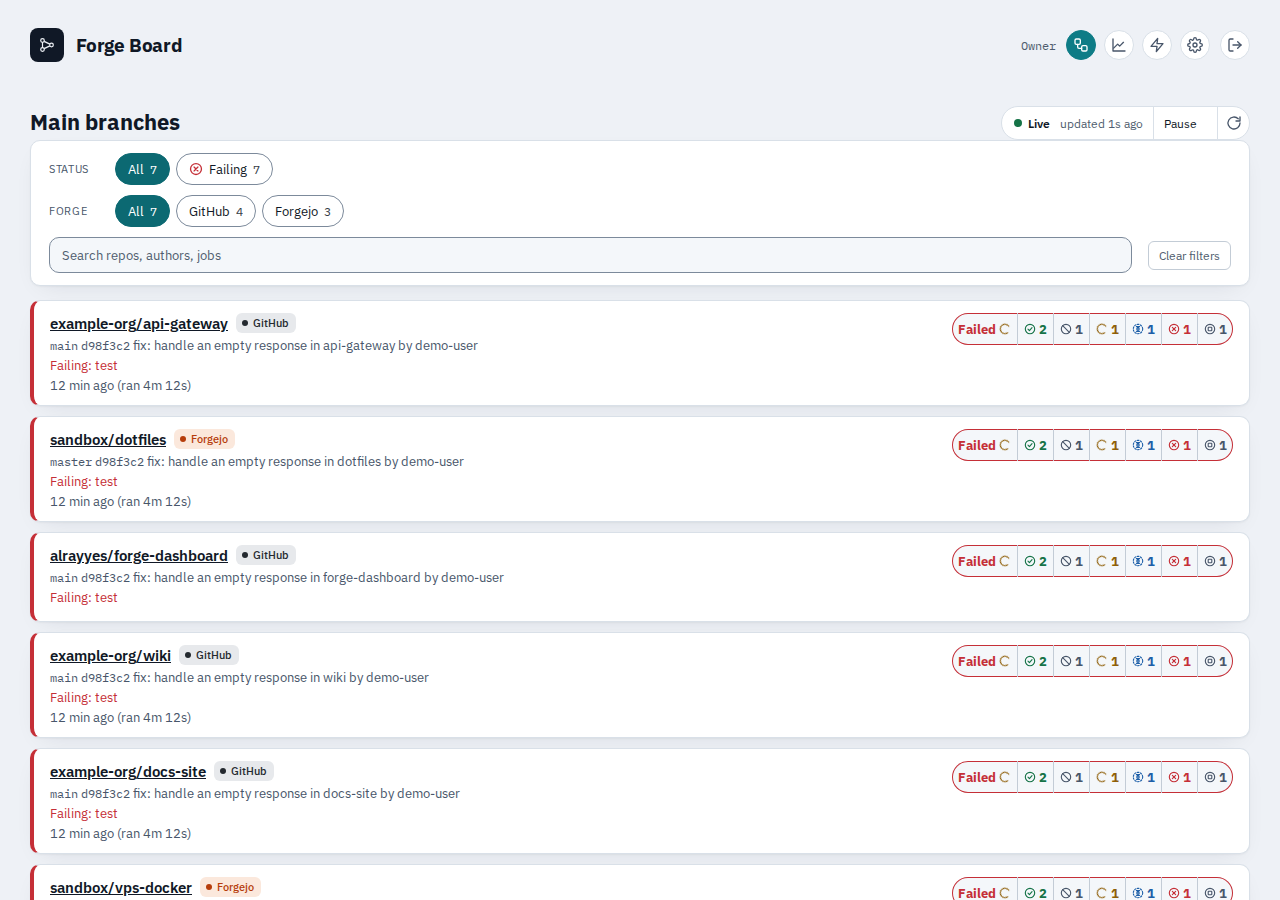
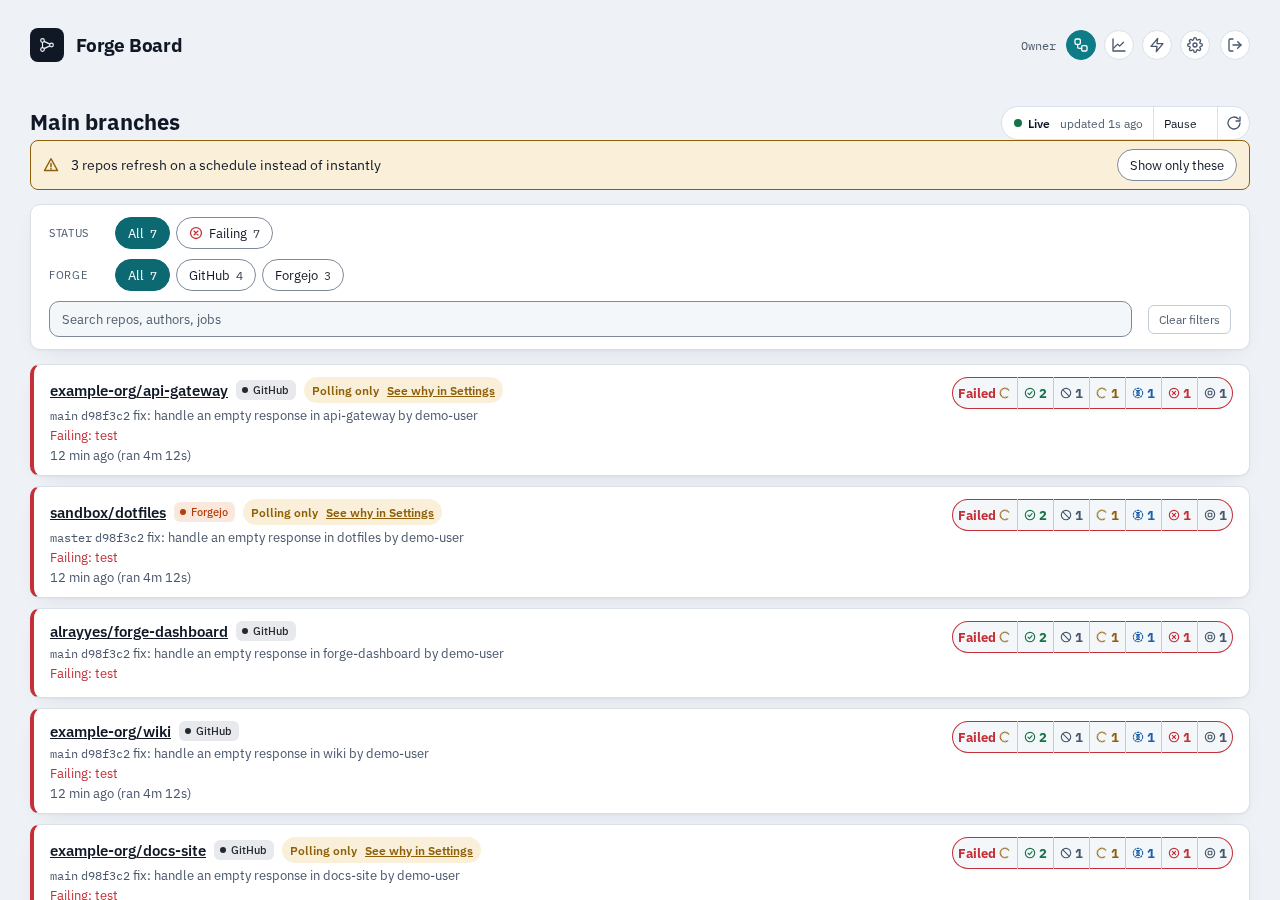
docs: add Repositories and phone screenshots to the README
Refs #4028

Changed region(s): [[0.0, 0.1244, 1.0, 1.0], [0.0625, 0.0311, 0.1562, 0.0622]]

diff --git a/scripts/capture-screenshots.ts b/scripts/capture-screenshots.ts
@@ -1,7 +1,8 @@
 #!/usr/bin/env node
 // Regenerates docs/screenshots/<page>-{light,dark}.png for every page in the
 // menu (branches, pull requests, issues, releases, bots, insights, webhooks,
-// settings), the pipeline checks panel, the pull request dialogs
+// settings, and its Repositories group, with a phone shot of the last and of
+// branches), the pipeline checks panel, the pull request dialogs
 // (a pull request, a release, a bot, and the phone sheet) and the login page
 // (the footer pages are left out) against a real build of the binary, run by
 // the release workflow's screenshots job — not a Playwright *test*
@@ -492,7 +493,15 @@ const PAGES = [
   { name: 'insights', url: '/insights.html', ready: '.insights-header h1' },
   { name: 'webhooks', url: '/webhooks.html', ready: '#webhooks-rows tr' },
   { name: 'settings', url: '/settings.html', ready: 'h1' },
+  {
+    name: 'repositories',
+    url: '/settings.html#repositories',
+    ready: '#repositories-rows tr',
+  },
 ];
+
+// Pages shot again at phone width (390px), named <page>-phone-<theme>.png.
+const PHONE_PAGES = ['branches', 'repositories'];
 
 const THEMES = ['light', 'dark'] as const;
 
@@ -638,6 +647,16 @@ async function main() {
       }
       if (name === 'bots') {
         await shootDialog(page, 88, 'bot-dialog', theme, '.details-collapsed');
+      }
+      if (PHONE_PAGES.includes(name)) {
+        await page.setViewportSize({ width: 390, height: 844 });
+        await page.goto(`${BASE_URL}${url}`);
+        await page.locator(ready).first().waitFor();
+        await page.waitForLoadState('networkidle');
+        await page.screenshot({
+          path: path.join(OUT_DIR, `${name}-phone-${theme}.png`),
+        });
+        await page.setViewportSize({ width: 1280, height: 900 });
       }
     }
   }

diff --git a/scripts/capture-screenshots.test.ts b/scripts/capture-screenshots.test.ts
@@ -29,7 +29,15 @@ test('the README links a light and a dark image for each dialog shot', () => {
 
 test('the capture script writes every image the README links', () => {
   for (const name of new Set(linked)) {
-    expect(script).toContain(name);
+    // A phone shot is named by its page plus "-phone", built at run time from
+    // the PHONE_PAGES list.
+    const page = name.replace(/-phone$/, '');
+    expect(script).toContain(page);
+    if (name !== page) {
+      expect(script).toMatch(
+        new RegExp(`PHONE_PAGES = \\[[^\\]]*'${page}'[^\\]]*\\]`),
+      );
+    }
   }
 });
 

diff --git a/README.md b/README.md
@@ -34,22 +34,25 @@ with hardening flags, building from source and the health check are in
 any other deployment, set them to your real domain and its `https://` origin;
 see [Configuration](docs/configuration.md).
 
-| Page                                                                                                                                                                                                                                                                     | Light                                                                               | Dark                                                                              |
-| ------------------------------------------------------------------------------------------------------------------------------------------------------------------------------------------------------------------------------------------------------------------------ | ----------------------------------------------------------------------------------- | --------------------------------------------------------------------------------- |
-| **Branches**. The CI status of every default branch, latest commit first.                                                                                                                                                                                                | ![Branches, light mode](docs/screenshots/branches-light.png)                        | ![Branches, dark mode](docs/screenshots/branches-dark.png)                        |
-| **Pull requests**. Open pull requests across both forges, with CI status, filters, sorting, and an update-all action.                                                                                                                                                    | ![Pull requests, light mode](docs/screenshots/pull-requests-light.png)              | ![Pull requests, dark mode](docs/screenshots/pull-requests-dark.png)              |
-| **Pull request details**. A pull request's description, comments, and thumbs reactions.                                                                                                                                                                                  | ![Pull request details, light mode](docs/screenshots/pull-request-dialog-light.png) | ![Pull request details, dark mode](docs/screenshots/pull-request-dialog-dark.png) |
-| **Phone sheet**. The same details on a 360px screen.                                                                                                                                                                                                                     | ![Phone sheet, light mode](docs/screenshots/pull-request-sheet-light.png)           | ![Phone sheet, dark mode](docs/screenshots/pull-request-sheet-dark.png)           |
-| **Pipeline checks**. A pull request's checks with state, time, failure excerpt, a Copy log button for the whole log of a failed or timed-out check, each run's output with a Copy button, and Rerun failed checks or Cancel run behind a confirm step, from its CI pill. | ![Pipeline checks, light mode](docs/screenshots/pipeline-checks-light.png)          | ![Pipeline checks, dark mode](docs/screenshots/pipeline-checks-dark.png)          |
-| **Issues**. Open issues across both forges. Close one from its dialog, commenting if you like.                                                                                                                                                                           | ![Issues, light mode](docs/screenshots/issues-light.png)                            | ![Issues, dark mode](docs/screenshots/issues-dark.png)                            |
-| **Releases**. Release pull requests waiting to ship.                                                                                                                                                                                                                     | ![Releases, light mode](docs/screenshots/releases-light.png)                        | ![Releases, dark mode](docs/screenshots/releases-dark.png)                        |
-| **Release details**. The release notes a release pull request publishes.                                                                                                                                                                                                 | ![Release details, light mode](docs/screenshots/release-dialog-light.png)           | ![Release details, dark mode](docs/screenshots/release-dialog-dark.png)           |
-| **Bots**. Dependabot and Renovate pull requests, with a rebase-all action.                                                                                                                                                                                               | ![Bots, light mode](docs/screenshots/bots-light.png)                                | ![Bots, dark mode](docs/screenshots/bots-dark.png)                                |
-| **Bot details**. A bot pull request, its generated text collapsed.                                                                                                                                                                                                       | ![Bot details, light mode](docs/screenshots/bot-dialog-light.png)                   | ![Bot details, dark mode](docs/screenshots/bot-dialog-dark.png)                   |
-| **Insights**. Charts of CI state and the busiest repos.                                                                                                                                                                                                                  | ![Insights, light mode](docs/screenshots/insights-light.png)                        | ![Insights, dark mode](docs/screenshots/insights-dark.png)                        |
-| **Webhooks**. Which tracked repos have a confirmed webhook, and a way to add one.                                                                                                                                                                                        | ![Webhooks, light mode](docs/screenshots/webhooks-light.png)                        | ![Webhooks, dark mode](docs/screenshots/webhooks-dark.png)                        |
-| **Settings**. Five groups, one at a time: display, connections, behaviour, integrations and security, and repositories (per-repo auto-update, rebase bots and ignore).                                                                                                   | ![Settings, light mode](docs/screenshots/settings-light.png)                        | ![Settings, dark mode](docs/screenshots/settings-dark.png)                        |
-| **Login**. Passkey sign-in.                                                                                                                                                                                                                                              | ![Login, light mode](docs/screenshots/login-light.png)                              | ![Login, dark mode](docs/screenshots/login-dark.png)                              |
+| Page                                                                                                                                                                                                                                                                     | Light                                                                                          | Dark                                                                                         |
+| ------------------------------------------------------------------------------------------------------------------------------------------------------------------------------------------------------------------------------------------------------------------------ | ---------------------------------------------------------------------------------------------- | -------------------------------------------------------------------------------------------- |
+| **Branches**. The CI status of every default branch, latest commit first.                                                                                                                                                                                                | ![Branches, light mode](docs/screenshots/branches-light.png)                                   | ![Branches, dark mode](docs/screenshots/branches-dark.png)                                   |
+| **Pull requests**. Open pull requests across both forges, with CI status, filters, sorting, and an update-all action.                                                                                                                                                    | ![Pull requests, light mode](docs/screenshots/pull-requests-light.png)                         | ![Pull requests, dark mode](docs/screenshots/pull-requests-dark.png)                         |
+| **Pull request details**. A pull request's description, comments, and thumbs reactions.                                                                                                                                                                                  | ![Pull request details, light mode](docs/screenshots/pull-request-dialog-light.png)            | ![Pull request details, dark mode](docs/screenshots/pull-request-dialog-dark.png)            |
+| **Phone sheet**. The same details on a 360px screen.                                                                                                                                                                                                                     | ![Phone sheet, light mode](docs/screenshots/pull-request-sheet-light.png)                      | ![Phone sheet, dark mode](docs/screenshots/pull-request-sheet-dark.png)                      |
+| **Pipeline checks**. A pull request's checks with state, time, failure excerpt, a Copy log button for the whole log of a failed or timed-out check, each run's output with a Copy button, and Rerun failed checks or Cancel run behind a confirm step, from its CI pill. | ![Pipeline checks, light mode](docs/screenshots/pipeline-checks-light.png)                     | ![Pipeline checks, dark mode](docs/screenshots/pipeline-checks-dark.png)                     |
+| **Issues**. Open issues across both forges. Close one from its dialog, commenting if you like.                                                                                                                                                                           | ![Issues, light mode](docs/screenshots/issues-light.png)                                       | ![Issues, dark mode](docs/screenshots/issues-dark.png)                                       |
+| **Releases**. Release pull requests waiting to ship.                                                                                                                                                                                                                     | ![Releases, light mode](docs/screenshots/releases-light.png)                                   | ![Releases, dark mode](docs/screenshots/releases-dark.png)                                   |
+| **Release details**. The release notes a release pull request publishes.                                                                                                                                                                                                 | ![Release details, light mode](docs/screenshots/release-dialog-light.png)                      | ![Release details, dark mode](docs/screenshots/release-dialog-dark.png)                      |
+| **Bots**. Dependabot and Renovate pull requests, with a rebase-all action.                                                                                                                                                                                               | ![Bots, light mode](docs/screenshots/bots-light.png)                                           | ![Bots, dark mode](docs/screenshots/bots-dark.png)                                           |
+| **Bot details**. A bot pull request, its generated text collapsed.                                                                                                                                                                                                       | ![Bot details, light mode](docs/screenshots/bot-dialog-light.png)                              | ![Bot details, dark mode](docs/screenshots/bot-dialog-dark.png)                              |
+| **Insights**. Charts of CI state and the busiest repos.                                                                                                                                                                                                                  | ![Insights, light mode](docs/screenshots/insights-light.png)                                   | ![Insights, dark mode](docs/screenshots/insights-dark.png)                                   |
+| **Webhooks**. Which tracked repos have a confirmed webhook, and a way to add one.                                                                                                                                                                                        | ![Webhooks, light mode](docs/screenshots/webhooks-light.png)                                   | ![Webhooks, dark mode](docs/screenshots/webhooks-dark.png)                                   |
+| **Settings**. Five groups, one at a time: display, connections, behaviour, integrations and security, and repositories (per-repo auto-update, rebase bots and ignore).                                                                                                   | ![Settings, light mode](docs/screenshots/settings-light.png)                                   | ![Settings, dark mode](docs/screenshots/settings-dark.png)                                   |
+| **Repositories**. The per-repo controls in Settings: auto-update, rebase bots and ignore as icon toggles, with a notice for repos that refresh on a schedule.                                                                                                            | ![Repositories settings, light mode](docs/screenshots/repositories-light.png)                  | ![Repositories settings, dark mode](docs/screenshots/repositories-dark.png)                  |
+| **Repositories on a phone**. The same list as cards at 390px, with the label on the left and the toggle on the right.                                                                                                                                                    | ![Repositories settings on a phone, light mode](docs/screenshots/repositories-phone-light.png) | ![Repositories settings on a phone, dark mode](docs/screenshots/repositories-phone-dark.png) |
+| **Branches on a phone**. A "Polling only" chip marks repos without a webhook, linking to Settings.                                                                                                                                                                       | ![Branches on a phone, light mode](docs/screenshots/branches-phone-light.png)                  | ![Branches on a phone, dark mode](docs/screenshots/branches-phone-dark.png)                  |
+| **Login**. Passkey sign-in.                                                                                                                                                                                                                                              | ![Login, light mode](docs/screenshots/login-light.png)                                         | ![Login, dark mode](docs/screenshots/login-dark.png)                                         |
 
 Fixture data, not a real account's actual repositories. The release
 workflow regenerates every screenshot on each release (see
